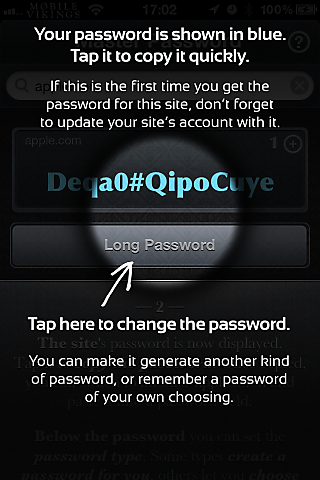
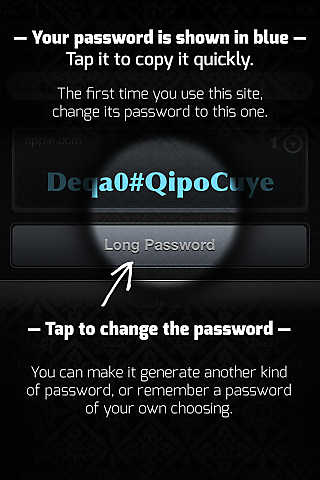
Show guide only first time + improved guide docs.

Changed region(s): [[0.0938, 0.6562, 0.9062, 0.875], [0.0312, 0.0625, 0.9688, 0.2812]]

diff --git a/OnePassword/OPMainViewController.m b/OnePassword/OPMainViewController.m
@@ -76,7 +76,7 @@
 }
 
 - (void)viewWillDisappear:(BOOL)animated {
-
+    
     [super viewWillDisappear:animated];
     
     self.searchTipContainer.hidden = YES;
@@ -85,10 +85,11 @@
 - (void)viewDidLoad {
     
     // Put the search tip on the window so it's above the nav bar.
-//    [self.searchTipContainer removeFromSuperview];
-//    [[UIApplication sharedApplication].keyWindow addSubview:self.searchTipContainer];
-//    self.searchTipContainer.frame = CGRectSetY(self.searchTipContainer.frame, self.searchTipContainer.frame.origin.y
-//                                               + self.navigationController.navigationBar.frame.size.height /* Nav */ + 20 /* Status */);
+    CGRect newFrame = [self.navigationController.navigationBar convertRect:self.searchTipContainer.frame
+                                                                  fromView:self.searchTipContainer.superview];
+    [self.searchTipContainer removeFromSuperview];
+    [self.navigationController.navigationBar addSubview:self.searchTipContainer];
+    self.searchTipContainer.frame = newFrame;
     self.searchTipContainer.hidden = YES;
     
     // Because IB's edit button doesn't auto-toggle self.editable like editButtonItem does.

diff --git a/OnePassword/OPConfig.m b/OnePassword/OPConfig.m
@@ -10,7 +10,7 @@
 
 @implementation OPConfig
 
-@dynamic dataStoreError, storeKeyPhrase, rememberKeyPhrase, forgetKeyPhrase, helpHidden;
+@dynamic dataStoreError, storeKeyPhrase, rememberKeyPhrase, forgetKeyPhrase, helpHidden, showQuickstart;
 
 
 - (id)init {
@@ -24,6 +24,7 @@
                                      [NSNumber numberWithBool:YES],                                 NSStringFromSelector(@selector(rememberKeyPhrase)),
                                      [NSNumber numberWithBool:NO],                                  NSStringFromSelector(@selector(forgetKeyPhrase)),
                                      [NSNumber numberWithBool:NO],                                  NSStringFromSelector(@selector(helpHidden)),
+                                     [NSNumber numberWithBool:YES],                                  NSStringFromSelector(@selector(showQuickstart)),
                                      nil]];
     
     return self;

diff --git a/OnePassword/OPConfig.h b/OnePassword/OPConfig.h
@@ -13,6 +13,7 @@
 @property (nonatomic, retain) NSNumber *rememberKeyPhrase;
 @property (nonatomic, retain) NSNumber *forgetKeyPhrase;
 @property (nonatomic, retain) NSNumber *helpHidden;
+@property (nonatomic, retain) NSNumber *showQuickstart;
 
 + (OPConfig *)get;
 

diff --git a/OnePassword/OPAppDelegate.m b/OnePassword/OPAppDelegate.m
@@ -121,7 +121,7 @@
 }
 - (void)applicationDidBecomeActive:(UIApplication *)application {
     
-    if ([[OPConfig get].firstRun boolValue])
+    if ([[OPConfig get].showQuickstart boolValue])
         [self showGuide];
     else
         [self loadKeyPhrase];

diff --git a/OnePassword/OPGuideViewController.m b/OnePassword/OPGuideViewController.m
@@ -28,6 +28,7 @@
     
     [super viewWillDisappear:animated];
     
+    [OPConfig get].showQuickstart = [NSNumber numberWithBool:NO];
     [[OPAppDelegate get] loadKeyPhrase];
 }
 
